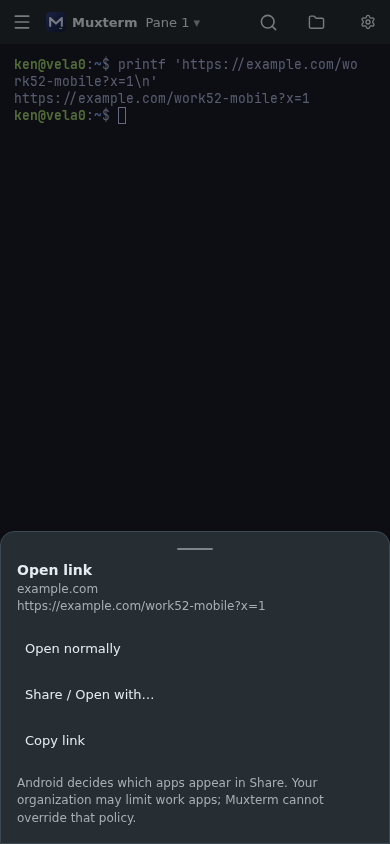
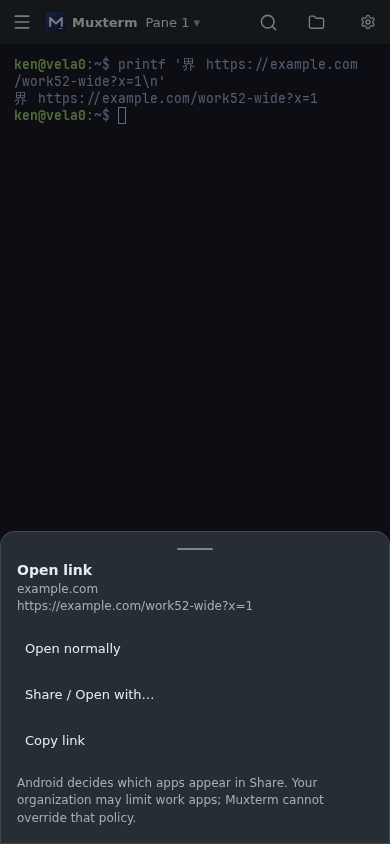
Handle wide terminal cells in link touch lookup

Changed region(s): [[0.0308, 0.0616, 0.9231, 0.1232], [0.4923, 0.7085, 0.6769, 0.7393]]

diff --git a/web/src/lib/terminal-registry.ts b/web/src/lib/terminal-registry.ts
@@ -473,8 +473,21 @@ export const terminalRegistry = {
       while (first > 0 && buffer.getLine(first)?.isWrapped && bufferRow - first < 10) first--;
       while (buffer.getLine(last + 1)?.isWrapped && last - bufferRow < 10) last++;
       let text = '';
-      for (let y = first; y <= last; y++) text += buffer.getLine(y)?.translateToString(false) ?? '';
-      const offset = (bufferRow - first) * term.cols + col;
+      let offset = 0;
+      for (let y = first; y <= last; y++) {
+        const line = buffer.getLine(y);
+        if (!line) continue;
+        text += line.translateToString(false);
+        if (y > bufferRow) continue;
+        // URL match indexes are UTF-16 string offsets, while the touch column
+        // is measured in terminal cells. Wide and combined glyphs differ.
+        const limit = y === bufferRow ? col : term.cols;
+        for (let x = 0; x < limit; x++) {
+          const cell = line.getCell(x);
+          if (cell?.getWidth() === 0) continue;
+          offset += cell?.getChars().length || 1;
+        }
+      }
       for (const match of text.matchAll(/https?:\/\/[^\s<>"'`]+/g)) {
         const uri = match[0].replace(/[),.;!?]+$/, '');
         if (offset >= match.index && offset < match.index + uri.length) return uri;
@@ -1261,6 +1274,7 @@ export const terminalRegistry = {
       entry.resizeObserver?.disconnect();
       if (entry.resizeTimer !== undefined) clearTimeout(entry.resizeTimer);
       entry.term.dispose();
+      entry.hostEl.remove();
     }
     _map.clear();
     _preEnsureBuffer.clear();

diff --git a/web/src/lib/external-links.ts b/web/src/lib/external-links.ts
@@ -13,8 +13,10 @@ export function setExternalLinkPreference(value: ExternalLinkPreference): void {
   try { localStorage.setItem(PREFERENCE_KEY, value); } catch { /* Private browsing can reject storage. */ }
 }
 
+let androidPwaCache: boolean | null = null;
 export function isAndroidPwa(): boolean {
-  return /Android/i.test(navigator.userAgent) && window.matchMedia('(display-mode: standalone)').matches;
+  androidPwaCache ??= /Android/i.test(navigator.userAgent) && window.matchMedia('(display-mode: standalone)').matches;
+  return androidPwaCache;
 }
 
 function externalURL(href: string): string | null {
@@ -142,6 +144,8 @@ function showActions(url: string, focusTarget: HTMLElement | null): void {
 /** Used by the terminal link addon, whose links are rendered as cells rather than anchors. */
 let suppressTerminalLinkUntil = 0;
 let suppressTouchClickUntil = 0;
+// Both anchor and terminal long-press paths arm this; the document capture
+// listener suppresses the synthetic click from that same finger release.
 let suppressReleaseClick = false;
 export function openTerminalLink(event: MouseEvent, uri: string): void {
   if (Date.now() < suppressTerminalLinkUntil) return;

diff --git a/docs/verification/android-pwa-links-2026-11-23/README.md b/docs/verification/android-pwa-links-2026-11-23/README.md
@@ -1,3 +1,3 @@
 # Android PWA link choice
 
-Final browser captures from isolated dev-local show Settings at 390px and 320px, the link menu at both widths, and a terminal URL menu. The Android chooser capture came from Cromite 153 on an API 30 emulator. The emulator did not complete PWA installation and had no enrolled policy or work Edge; cross-profile routing remains unverified.
+Final browser captures from isolated dev-local show Settings at 390px and 320px, the link menu at both widths, and a terminal URL menu after a wide Unicode glyph. The Android chooser capture came from Cromite 153 on an API 30 emulator. The emulator did not complete PWA installation and had no enrolled policy or work Edge; cross-profile routing remains unverified.
